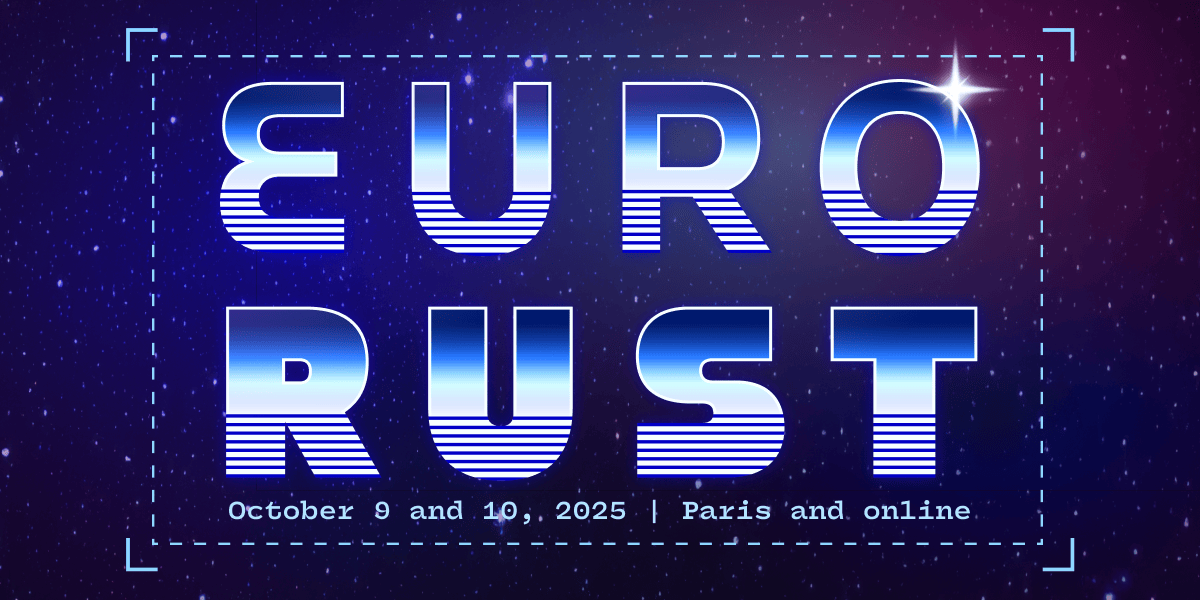
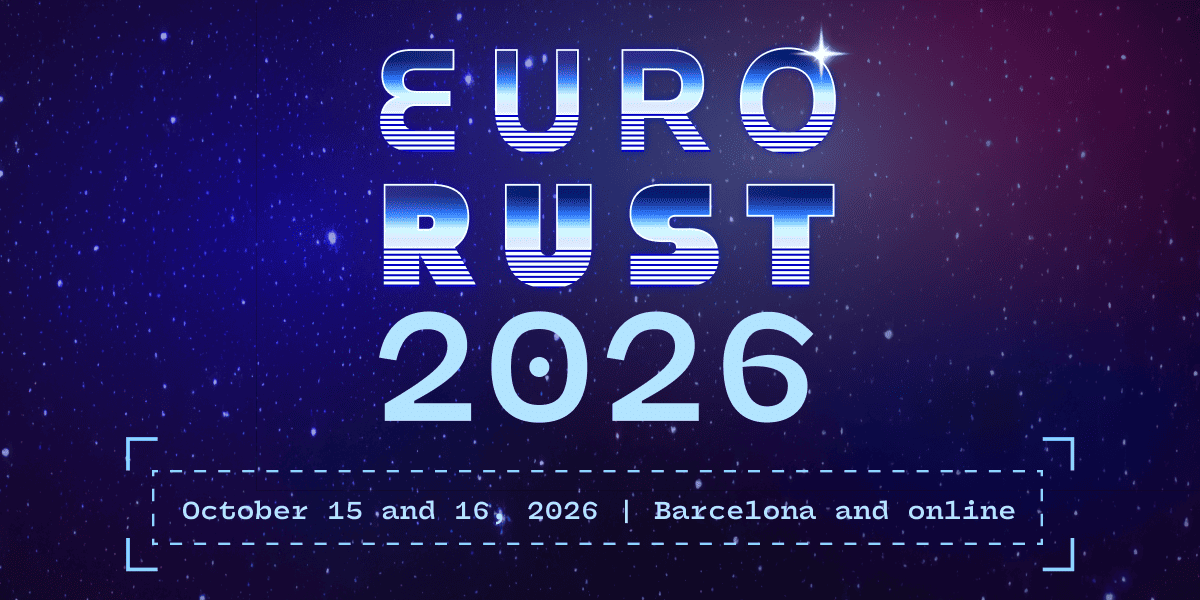
add(2026)

diff --git a/templates/sections/past-sponsors.html b/templates/sections/past-sponsors.html
@@ -1,10 +1,8 @@
 <section class="sponsors">
-  <h1 class="pb-6">Sponsors</h1>
+  <h1 class="pb-6">Past Sponsors</h1>
   <div class="sponsors-grid">
-    {% if section.extra.main_partner_sponsors %}
       <div class="sponsors-grid--main_partners">
-        <h2>Main Partners</h2>
-        {% for sponsor in section.extra.main_partner_sponsors %}
+        {% for sponsor in section.extra.past_sponsors %}
           <a class="mb-4" href="{{ sponsor.link }}" aria-label="{{ sponsor.title }}" rel="noopener noreferrer">
             {% set meta = get_image_metadata(path=sponsor.image) %}
             <img
@@ -17,171 +15,4 @@
           </a>
         {% endfor %}
       </div>
-    {% endif %}
-    {% if section.extra.premier_partner_sponsors %}
-      <div class="sponsors-grid--premier_partners">
-        <h2>Premier Partners</h2>
-        {% for sponsor in section.extra.premier_partner_sponsors %}
-          <a
-            href="{{ sponsor.link }}"
-            aria-label="{{ sponsor.title }}"
-            target="_blank"
-            rel="noopener noreferrer"
-            class="mb-4"
-          >
-            {% set meta = get_image_metadata(path=sponsor.image) %}
-            <img
-              alt="{{ sponsor.title }}"
-              src="{{ sponsor.image }}"
-              width="{{ meta.width }}"
-              height="{{ meta.height }}"
-              loading="lazy"
-            />
-          </a>
-        {% endfor %}
-      </div>
-    {% endif %}
-    {% if section.extra.lounge_partner_sponsors %}
-      <div class="sponsors-grid--lounge_partners">
-        <h2>Lounge Partner</h2>
-        {% for sponsor in section.extra.lounge_partner_sponsors %}
-          <a href="{{ sponsor.link }}" aria-label="{{ sponsor.title }}" target="_blank" rel="noopener noreferrer">
-            {% set meta = get_image_metadata(path=sponsor.image) %}
-            <img
-              alt="{{ sponsor.title }}"
-              src="{{ sponsor.image }}"
-              width="{{ meta.width }}"
-              height="{{ meta.height }}"
-              loading="lazy"
-            />
-          </a>
-        {% endfor %}
-      </div>
-    {% endif %}
-    {% if section.extra.live_stream_partner_sponsors %}
-      <div class="sponsors-grid--live_stream_partners">
-        <h2>Live Stream Partner</h2>
-        {% for sponsor in section.extra.live_stream_partner_sponsors %}
-          <a href="{{ sponsor.link }}" aria-label="{{ sponsor.title }}" target="_blank" rel="noopener noreferrer">
-            {% set meta = get_image_metadata(path=sponsor.image) %}
-            <img
-              alt="{{ sponsor.title }}"
-              src="{{ sponsor.image }}"
-              width="{{ meta.width }}"
-              height="{{ meta.height }}"
-              loading="lazy"
-            />
-          </a>
-        {% endfor %}
-      </div>
-    {% endif %}
-    {% if section.extra.closing_party_partner_sponsors %}
-      <div class="sponsors-grid--closing_party_partners">
-        <h2>Closing Party Partner</h2>
-        {% for sponsor in section.extra.closing_party_partner_sponsors %}
-          <a href="{{ sponsor.link }}" aria-label="{{ sponsor.title }}" target="_blank" rel="noopener noreferrer">
-            {% set meta = get_image_metadata(path=sponsor.image) %}
-            <img
-              alt="{{ sponsor.title }}"
-              src="{{ sponsor.image }}"
-              width="{{ meta.width }}"
-              height="{{ meta.height }}"
-              loading="lazy"
-            />
-          </a>
-        {% endfor %}
-      </div>
-    {% endif %}
-    {% if section.extra.impl_room_partner_sponsors %}
-      <div class="sponsors-grid--impl_room_partners">
-        <h2>impl Room Partner</h2>
-        {% for sponsor in section.extra.impl_room_partner_sponsors %}
-          <a href="{{ sponsor.link }}" aria-label="{{ sponsor.title }}" target="_blank" rel="noopener noreferrer">
-            {% set meta = get_image_metadata(path=sponsor.image) %}
-            <img
-              alt="{{ sponsor.title }}"
-              src="{{ sponsor.image }}"
-              width="{{ meta.width }}"
-              height="{{ meta.height }}"
-              loading="lazy"
-            />
-          </a>
-        {% endfor %}
-      </div>
-    {% endif %}
-    {% if section.extra.head_partner_sponsors %}
-      <div class="sponsors-grid--head_partners">
-        <h2>Head Partners</h2>
-        {% for sponsor in section.extra.head_partner_sponsors %}
-          <a class="mb-4" href="{{ sponsor.link }}" aria-label="{{ sponsor.title }}" target="_blank" rel="noopener noreferrer">
-            {% set meta = get_image_metadata(path=sponsor.image) %}
-            <img
-              alt="{{ sponsor.title }}"
-              src="{{ sponsor.image }}"
-              width="{{ meta.width }}"
-              height="{{ meta.height }}"
-              loading="lazy"
-            />
-          </a>
-        {% endfor %}
-      </div>
-    {% endif %}
-    {% if section.extra.partner_sponsors %}
-      <div class="sponsors-grid--partners">
-        <h2>Partners</h2>
-        <div>
-          {% for sponsor in section.extra.partner_sponsors %}
-            <a href="{{ sponsor.link }}" aria-label="{{ sponsor.title }}" target="_blank" rel="noopener noreferrer">
-              {% set meta = get_image_metadata(path=sponsor.image) %}
-              <img
-                alt="{{ sponsor.title }}"
-                src="{{ sponsor.image }}"
-                width="{{ meta.width }}"
-                height="{{ meta.height }}"
-                loading="lazy"
-              />
-            </a>
-          {% endfor %}
-        </div>
-      </div>
-    {% endif %}
-    {% if section.extra.supporter_sponsors %}
-      <div class="sponsors-grid--supporters">
-        <h2>Supporters</h2>
-        <div>
-          {% for sponsor in section.extra.supporter_sponsors %}
-            <a href="{{ sponsor.link }}" aria-label="{{ sponsor.title }}" target="_blank" rel="noopener noreferrer">
-              {% set meta = get_image_metadata(path=sponsor.image) %}
-              <img
-                alt="{{ sponsor.title }}"
-                src="{{ sponsor.image }}"
-                width="{{ meta.width }}"
-                height="{{ meta.height }}"
-                loading="lazy"
-              />
-            </a>
-          {% endfor %}
-        </div>
-      </div>
-    {% endif %}
-    {% if section.extra.media_partners %}
-      <div class="sponsors-grid--supporters">
-        <h2>Media Partners</h2>
-        <div>
-          {% for sponsor in section.extra.media_partners %}
-            <a href="{{ sponsor.link }}" aria-label="{{ sponsor.title }}" target="_blank" rel="noopener noreferrer">
-              {% set meta = get_image_metadata(path=sponsor.image) %}
-              <img
-                alt="{{ sponsor.title }}"
-                src="{{ sponsor.image }}"
-                width="{{ meta.width }}"
-                height="{{ meta.height }}"
-                loading="lazy"
-              />
-            </a>
-          {% endfor %}
-        </div>
-      </div>
-    {% endif %}
-  </div>
 </section>

diff --git a/templates/sections/hero.html b/templates/sections/hero.html
@@ -2,8 +2,8 @@
   <div class="hero__grid">
     <div class="hero__grid-meta">
       <p class="hero__grid-meta-info">
-        October 9 and 10, 2025<br />
-        Paris and online
+        October 15 and 16, 2026<br />
+        Barcelona and online
       </p>
       <img class="hero__logo" alt="EuroRust" src="/images/logo-250307.svg" width="718" height="395" />
 
@@ -14,15 +14,15 @@
 
     <div class="hero__grid-content">
       <div class="p-2">
-        <h1 class="pb-4">2 day Conference for the European Rust Community</h1>
+        <h1 class="pb-4"></h1>
         <p class="hero__grid-content-about">
-          We cover all things Rust: from Rust patterns and idioms to system programming and CLI
-          tooling, servers Wasm, and embedded systems
+          <strong>Eurorust 2026 will be held in Barcelona. Limited Super Early bird tickets are available now.</strong><br/><br/>We are a two-day conference for the European Rust Community. We cover all things Rust: from Rust patterns and idioms to system programming and CLI
+          tooling, servers Wasm, and embedded systems.
         </p>
       </div>
       <div class="py-3 hero__grid-buttons">
-        <a href="https://ti.to/events-matter/eurorust-2025" class="hero__grid-content-ticket-button"
-          >Get 2026 tickets</a
+        <a href="https://ti.to/events-matter/eurorust-2026" class="hero__grid-content-ticket-button"
+          >Buy 2026 tickets</a
         >
       </div>
     </div>

diff --git a/sass/components/_past-sponsors.scss b/sass/components/_past-sponsors.scss
@@ -37,9 +37,14 @@
     .sponsors-grid--head_partners,
     .sponsors-grid--partners,
     .sponsors-grid--supporters {
-      display: flex;
-      flex-direction: column;
-      align-items: center;
+      display: grid;
+      grid-template-columns: 25% 25% 25%;
+      gap: 1rem;
+      justify-content: center;
+
+       @media screen and (max-width: 60rem) {
+        grid-template-columns: 40% 40%;
+       }
 
       a {
         display: flex;
@@ -62,9 +67,13 @@
       border-radius: 6rem;
 
       img {
-        max-height: 6rem;
+        max-height: 4rem;
         height: unset;
         width: auto;
+
+         @media screen and (max-width: 60rem) {
+          max-height:2.75rem;
+         }
       }
     }
 

diff --git a/content/_index.md b/content/_index.md
@@ -1,116 +1,78 @@
 +++
-[[extra.main_partner_sponsors]]
+[[extra.past_sponsors]]
   title="OxidOS"
-  link="/oxidos"
+  link="https://oxidos.io/"
   image="/images/sponsors/oxidOS.svg"
 
-[[extra.main_partner_sponsors]]
+[[extra.past_sponsors]]
   title="Wyliodrin"
-  link="/wyliodrin"
+  link="https://wyliodrin.com/"
   image="/images/sponsors/wyliodrin.svg"
 
-[[extra.premier_partner_sponsors]]
+[[extra.past_sponsors]]
   title="Polar Signals"
   link="https://www.polarsignals.com//"
   image="/images/sponsors/polar-signals.svg"
 
-[[extra.premier_partner_sponsors]]
+[[extra.past_sponsors]]
   title="JetBrains"
   link="https://www.jetbrains.com/"
   image="/images/sponsors/jetbrains.svg"
 
-[[extra.premier_partner_sponsors]]
+[[extra.past_sponsors]]
   title="Codspeed"
   link="https://codspeed.io/"
   image="/images/sponsors/codspeed.svg"
 
-[[extra.premier_partner_sponsors]]
+[[extra.past_sponsors]]
   title="Wincent"
   link="https://www.wincent.com/"
   image="/images/sponsors/wincent.svg"
 
-[[extra.premier_partner_sponsors]]
+[[extra.past_sponsors]]
   title="Solana"
   link="https://solana.com/"
   image="/images/sponsors/solana.svg"
 
-[[extra.lounge_partner_sponsors]]
+[[extra.past_sponsors]]
   title="Helsing"
   link="https://helsing.ai/"
   image="/images/sponsors/helsing.svg"
 
-[[extra.live_stream_partner_sponsors]]
+[[extra.past_sponsors]]
   title="Hichtec"
   link="https://hightec-rt.com/"
   image="/images/sponsors/hightec.svg"
 
-[[extra.head_partner_sponsors]]
+[[extra.past_sponsors]]
   title="Huawei"
   link="https://www.huawei.com/en/?ic_medium=direct&ic_source=surlent&utm_source=eurorust"
   image="/images/sponsors/huawei.png"
 
-[[extra.head_partner_sponsors]]
+[[extra.past_sponsors]]
   title="Exein"
   link="https://www.exein.io/?ic_medium=direct&ic_source=surlent&utm_source=eurorust"
   image="/images/sponsors/exein.svg"
 
-[[extra.partner_sponsors]]
+[[extra.past_sponsors]]
   title="Open Source Security"
   link="https://opensrcsec.com"
   image="/images/sponsors/oss.svg"
 
-[[extra.partner_sponsors]]
+[[extra.past_sponsors]]
   title="Mullvad VPN AB"
   link="https://mullvad.net/en"
   image="/images/sponsors/mullvad.svg"
 
-[[extra.partner_sponsors]]
+[[extra.past_sponsors]]
   title="Woven by Toyota"
   link="https://woven.toyota/"
   image="/images/sponsors/woven.svg"
 
-[[extra.supporter_sponsors]]
+[[extra.past_sponsors]]
   title="Rust Foundation"
   link="https://rustfoundation.org"
   image="/images/sponsors/rust-foundation.svg"
-
-[[extra.supporter_sponsors]]
-  title="Peeriot"
-  link="http://peeriot.io/"
-  image="/images/sponsors/peeriot.svg"
-
-[[extra.media_partners]]
-  title="Self-Directed Research podcast"
-  link="https://sdr-podcast.com"
-  image="/images/sponsors/sdr.png"
-
-[[extra.media_partners]]
-  title="Women in Tech Germany"
-  link="https://women-in-tech.org/gr/"
-  image="/images/sponsors/women-in-tech.png"
-
-[[extra.media_partners]]
-  title="Code Beam Europe"
-  link="https://codebeameurope.com/"
-  image="/images/sponsors/code-beam-europe.png"
-
-[[extra.media_partners]]
-  title="Filtra"
-  link="https://filtra.io/"
-  image="/images/sponsors/filtra.svg"
-
-[[extra.moderators]]
-  name="Ciara"
-  image="/images/moderators/ciara.png"
-	twitter="https://x.com/Ciara0x1F973"
-
-[[extra.moderators]]
-  name="Stefan Baumgartner"
-  image="/images/moderators/stefan-baumgartner.png"
-  bsky="https://bsky.app/profile/deadparrot.dev"
-  web="https://fettblog.eu/?utm_source=eurorust"
-  github="https://github.com/ddprrt"
-  mastodon="https://mastodon.social/@deadparrot"
 
 [[extra.speakers]]
   name="Clément Renault"
